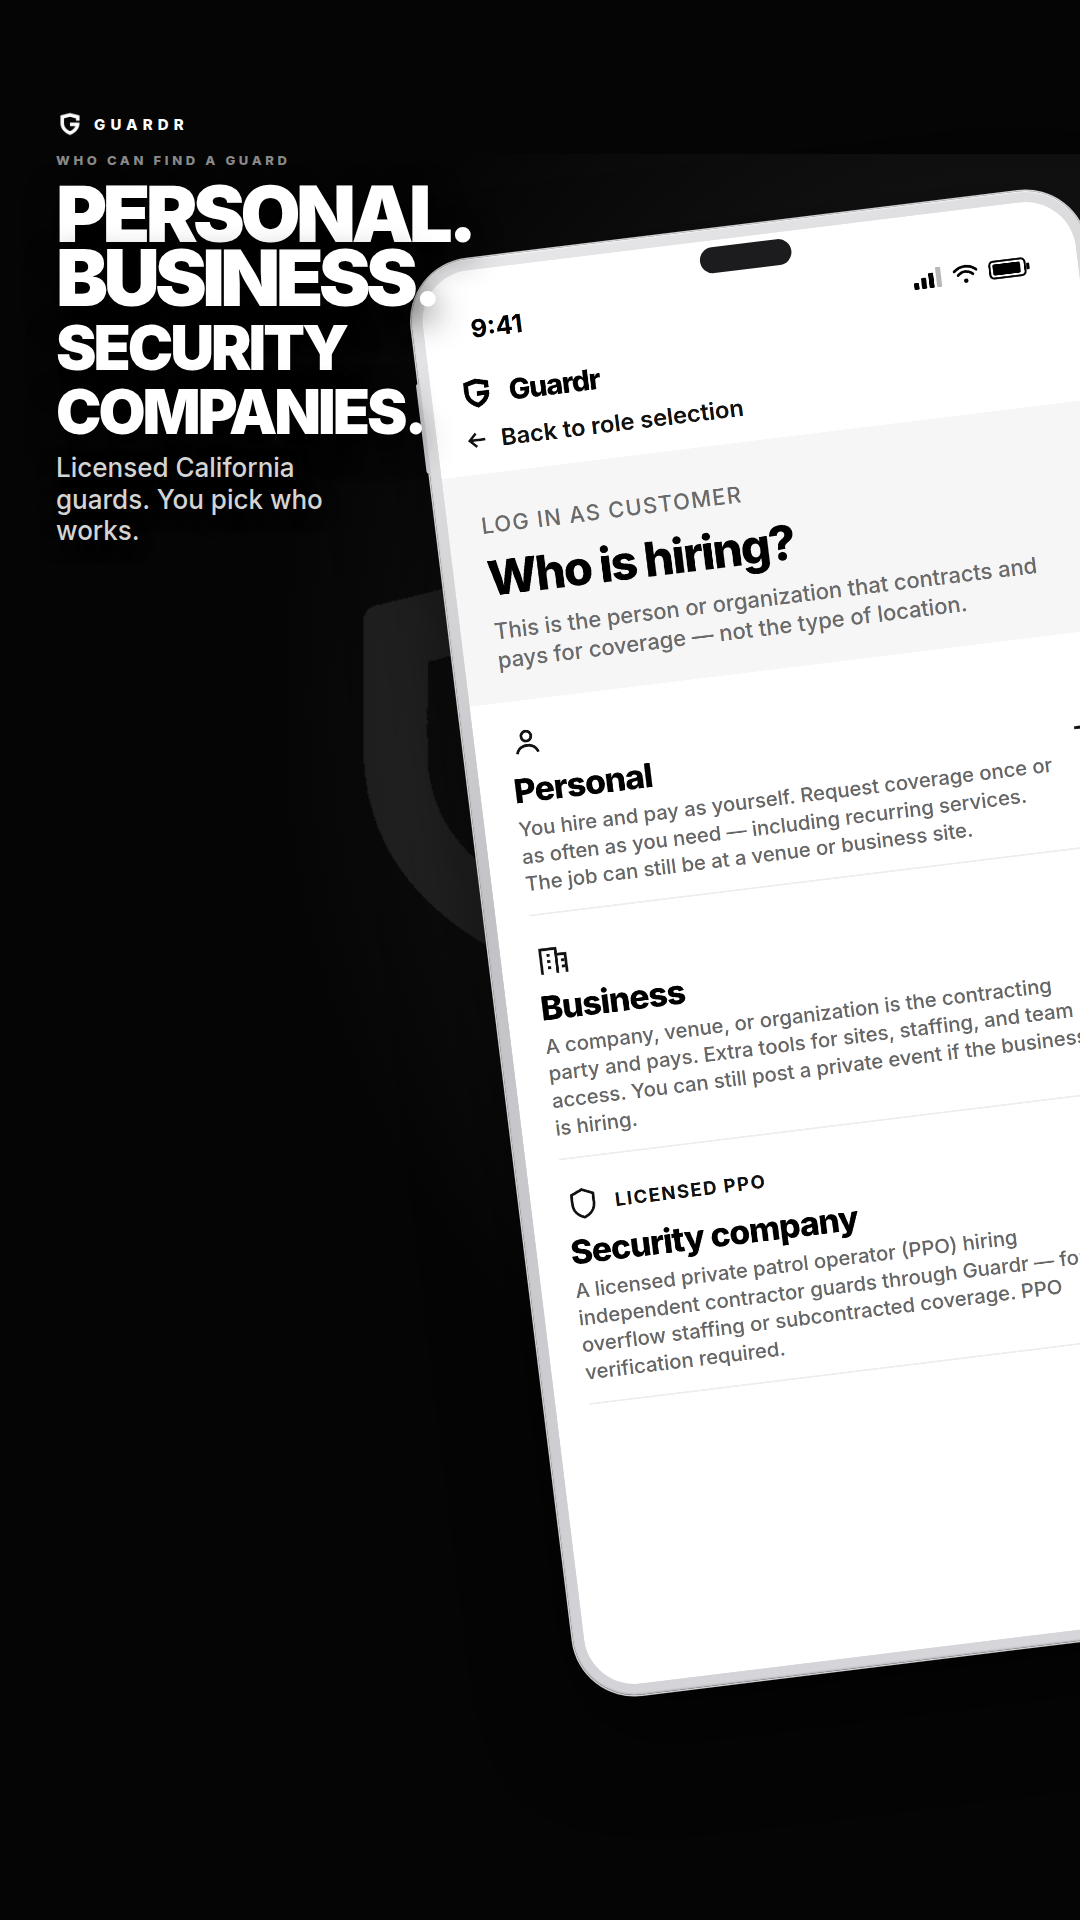
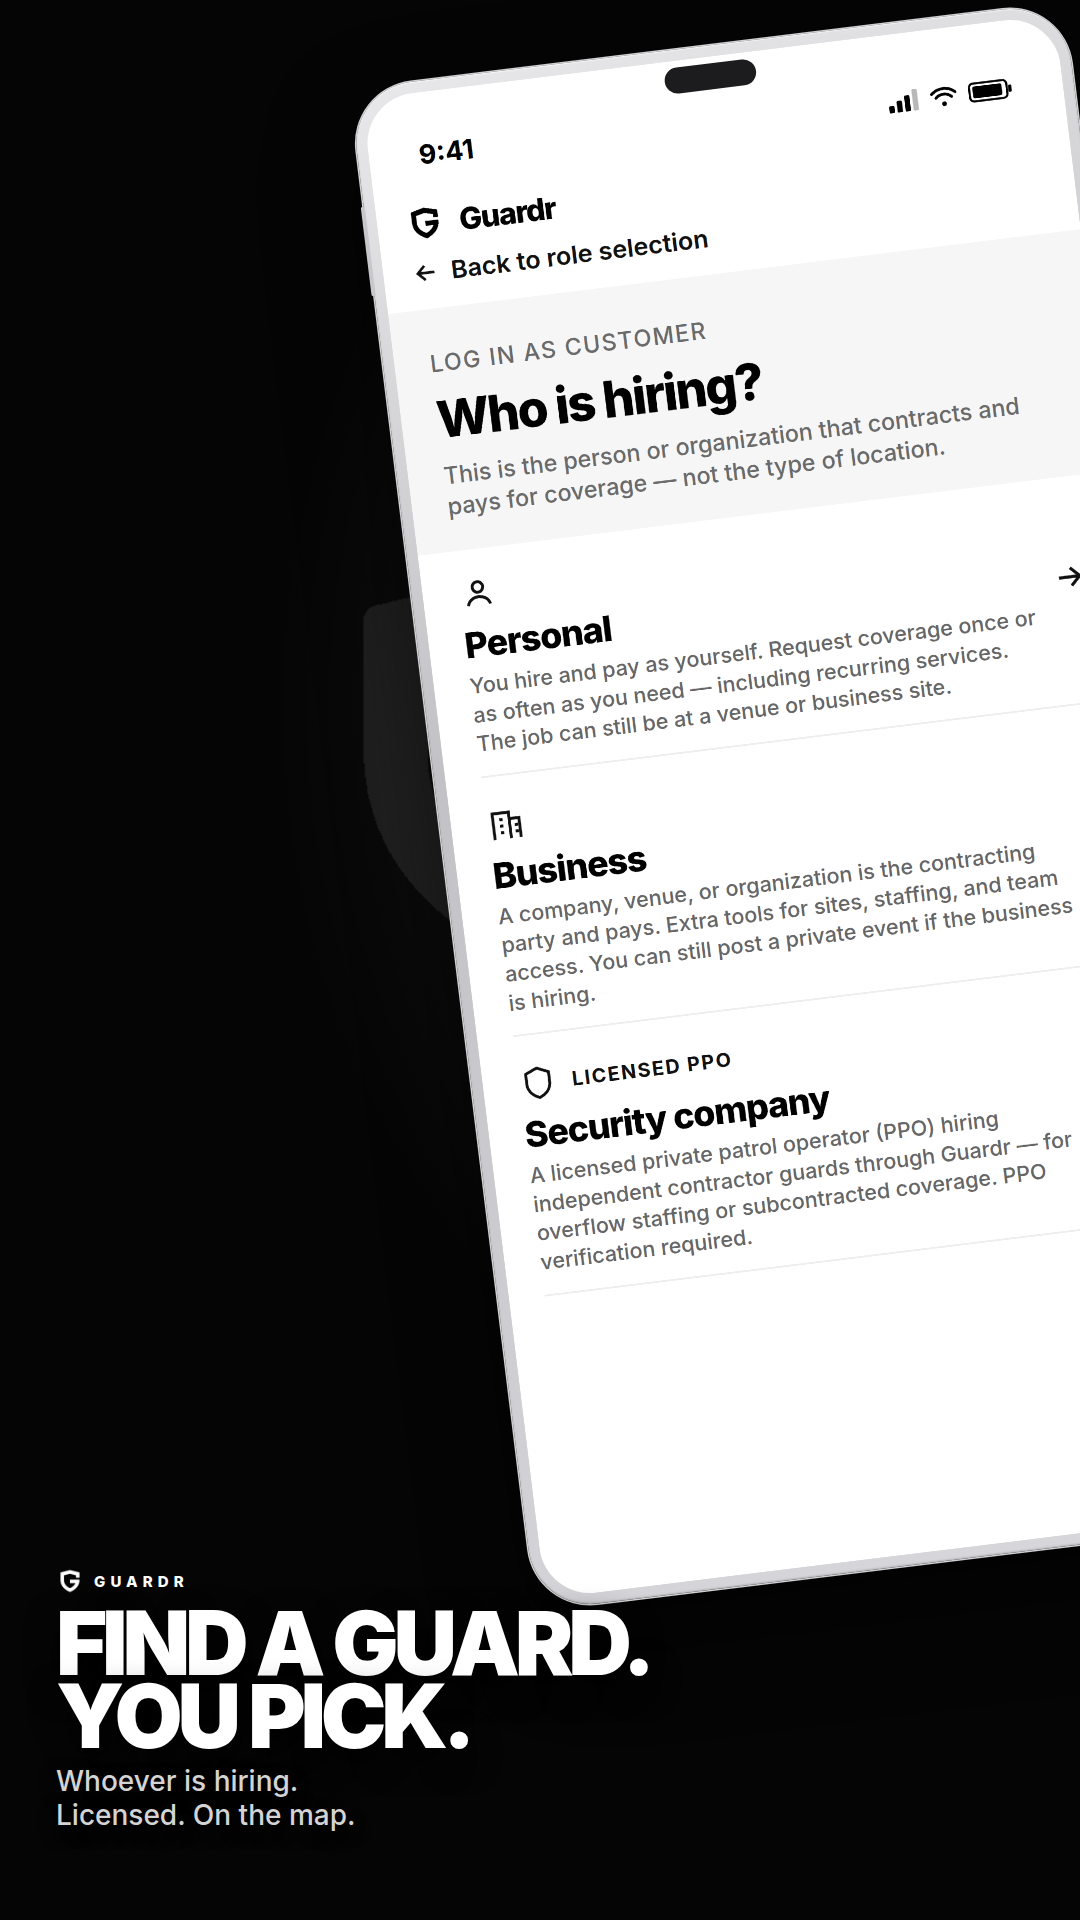
Move who-can-hire promo type to the bottom
Phone already lists Personal, Business, and Security company.
The line is now FIND A GUARD. YOU PICK. — a sentence, not a roster.

Changed region(s): [[0.0306, 0.0, 1.0, 0.9688], [0.8861, 0.1875, 0.9472, 0.2188], [0.9778, 0.2812, 1.0, 0.3125]]

diff --git a/docs/marketing/promo-posts-today.md b/docs/marketing/promo-posts-today.md
@@ -13,9 +13,9 @@ Re-render carousels only: `node scripts/render-promo-posts.mjs --carousel`
 
 [`instagram/ig-who-finds.png`](../../assets/marketing/posts/instagram/ig-who-finds.png)
 
-Sign-in page on the phone — **Who is hiring?** Personal, Business, or Security company (Licensed PPO), after Log in as customer. **PERSONAL. BUSINESS. SECURITY COMPANIES.**
+Who is hiring? on the phone (Personal, Business, Security company). Type at the bottom: **FIND A GUARD. YOU PICK.**
 
-**Caption:** Personal. Business. Security companies. Find licensed California guards — you pick who works.
+**Caption:** Find a licensed California guard. Whoever is hiring — you pick who works.
 
 Guardr is the platform — not a staffing agency. Not dispatch. Clients contract directly per job.
 
@@ -37,7 +37,7 @@ Opens on **who can hire**, with the sign-in page on the phone. Ending cover is s
 
 | # | File | Screen | Line |
 |---|---|---|---|
-| 1 Cover | [`00-cover.png`](../../assets/marketing/posts/instagram/carousel-clients/00-cover.png) | Who is hiring? | PERSONAL. BUSINESS. SECURITY COMPANIES. |
+| 1 Cover | [`00-cover.png`](../../assets/marketing/posts/instagram/carousel-clients/00-cover.png) | Who is hiring? | FIND A GUARD. YOU PICK. |
 | 2 | [`01-tonight.png`](../../assets/marketing/posts/instagram/carousel-clients/01-tonight.png) | Map | NEED A GUARD TONIGHT? |
 | 3 | [`02-post-pick.png`](../../assets/marketing/posts/instagram/carousel-clients/02-post-pick.png) | Jobs | POST A JOB. PICK A GUARD. |
 | 4 | [`03-chat.png`](../../assets/marketing/posts/instagram/carousel-clients/03-chat.png) | Chat | TALK TO WHO APPLIES. |
@@ -100,7 +100,7 @@ Link sticker: **https://www.guardr.co**
 
 | Image | Line |
 |---|---|
-| [`stories/story-who-finds.png`](../../assets/marketing/posts/stories/story-who-finds.png) | PERSONAL. BUSINESS. SECURITY COMPANIES. |
+| [`stories/story-who-finds.png`](../../assets/marketing/posts/stories/story-who-finds.png) | FIND A GUARD. YOU PICK. |
 | [`stories/story-how-it-works.png`](../../assets/marketing/posts/stories/story-how-it-works.png) | YOU PICK WHO WORKS. |
 | [`stories/story-tonight-map.png`](../../assets/marketing/posts/stories/story-tonight-map.png) | NEED A GUARD TONIGHT? |
 | [`stories/story-no-dispatcher.png`](../../assets/marketing/posts/stories/story-no-dispatcher.png) | NO DISPATCHER. |
@@ -113,7 +113,7 @@ Link sticker: **https://www.guardr.co**
 
 | Image | Line |
 |---|---|
-| [`landscape/wide-who-finds.png`](../../assets/marketing/posts/landscape/wide-who-finds.png) | PERSONAL. BUSINESS. SECURITY COMPANIES. |
+| [`landscape/wide-who-finds.png`](../../assets/marketing/posts/landscape/wide-who-finds.png) | FIND A GUARD. YOU PICK. |
 | [`landscape/wide-marketplace.png`](../../assets/marketing/posts/landscape/wide-marketplace.png) | YOU PICK WHO WORKS. |
 | [`landscape/wide-tonight-map.png`](../../assets/marketing/posts/landscape/wide-tonight-map.png) | NEED A GUARD TONIGHT? |
 | [`landscape/wide-no-dispatcher.png`](../../assets/marketing/posts/landscape/wide-no-dispatcher.png) | NO DISPATCHER. |

diff --git a/assets/marketing/posts/README.md b/assets/marketing/posts/README.md
@@ -2,7 +2,7 @@
 
 Ready-to-upload social pictures.
 
-- **Start here:** `instagram/ig-who-finds.png` — PERSONAL. BUSINESS. SECURITY COMPANIES. with Who is hiring? (Personal / Business / Security company) on the phone
+- **Start here:** `instagram/ig-who-finds.png` — FIND A GUARD. YOU PICK. with Who is hiring? on the phone (Personal / Business / Security company)
 - **Carousels (post these):** `instagram/carousel-clients/` opens on that same who-can-hire cover, then three different app screens, then Anytime. Anywhere. on the ending cover. `instagram/carousel-guards/` still opens Anytime. Anywhere.
 - **Phone pack:** `instagram/ig-marketplace.png` (YOU PICK WHO WORKS) plus `ig-tonight-map`, `ig-see-nearby`, `ig-no-dispatcher`, `ig-post-pick`, `ig-your-site`, `ig-open-call`, `ig-apply`, `ig-two-live`
 - **Captions:** [`docs/marketing/promo-posts-today.md`](../../../docs/marketing/promo-posts-today.md)
